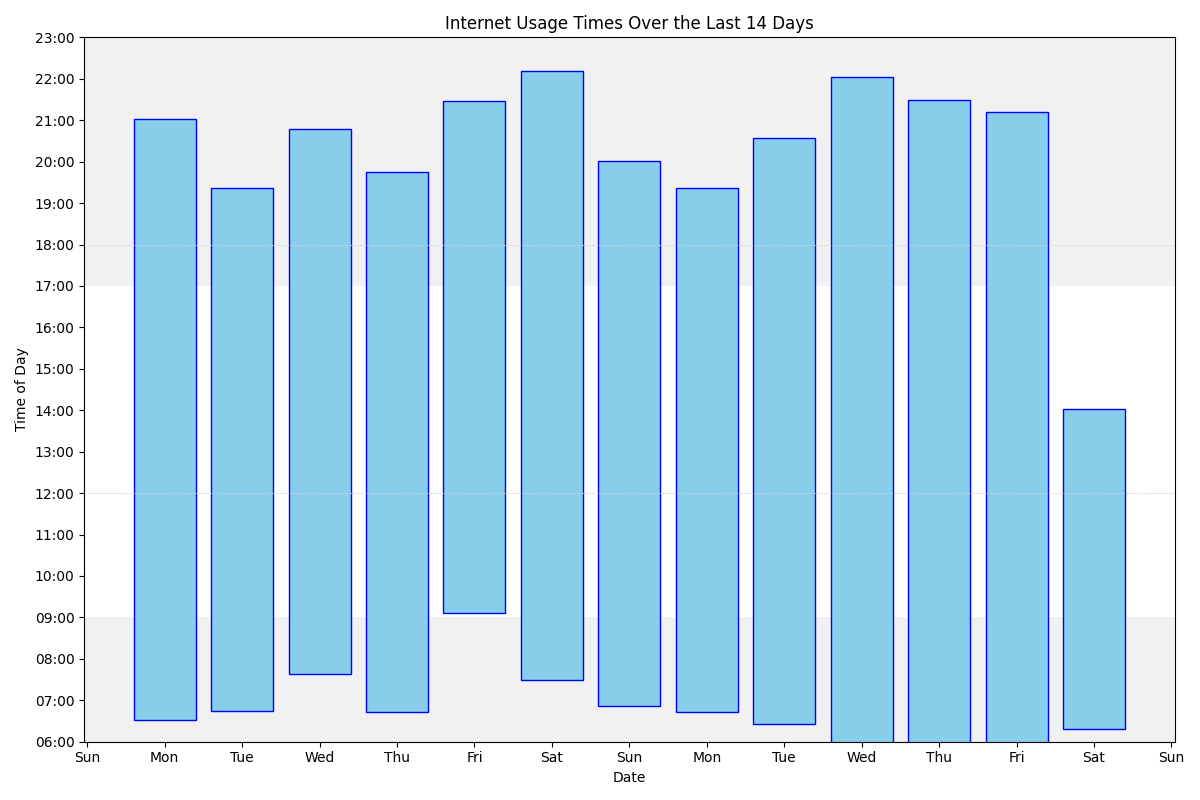
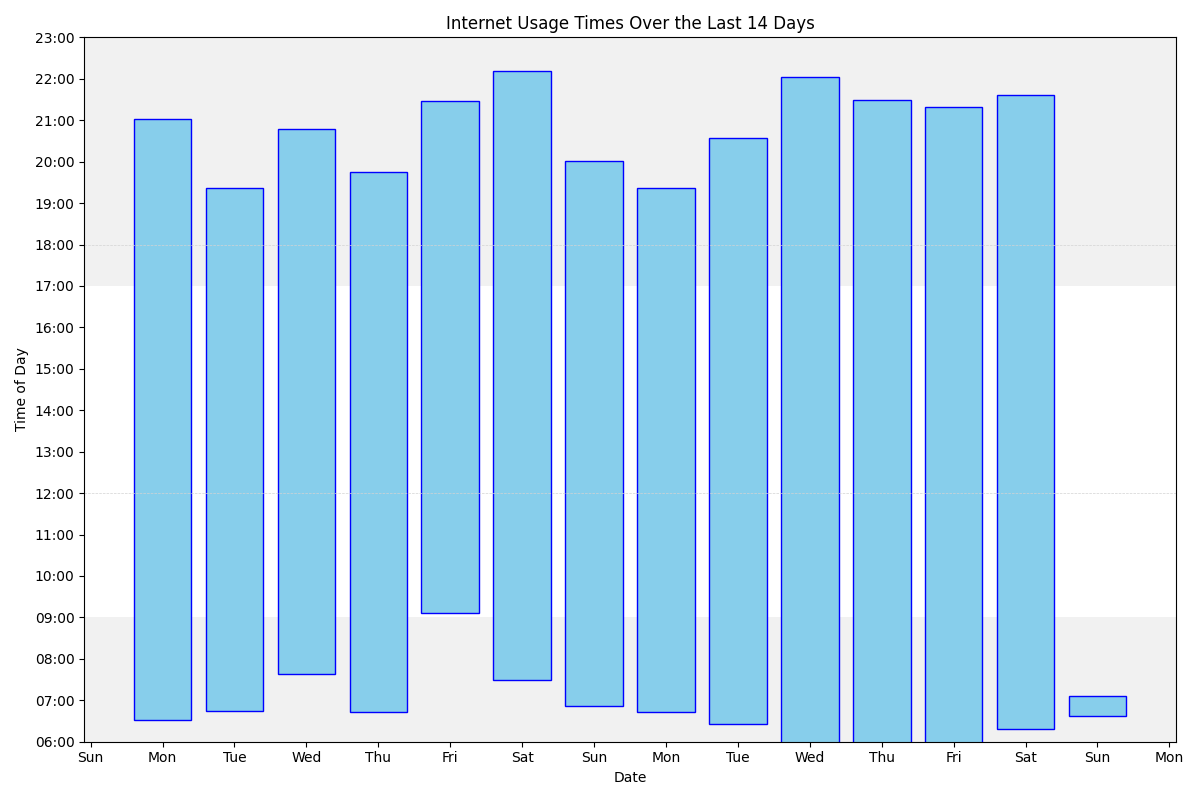
Update

diff --git a/index.md b/index.md
@@ -71,12 +71,12 @@ With number of accesses/minutes in parentheses
 <ol><li>www.google.com (2600)</li>
 <li>outlook.office.com (2005)</li>
 <li>mail.google.com (1893)</li>
-<li>docs.google.com (1587)</li>
+<li>docs.google.com (1589)</li>
 <li>bsky.app (1277)</li>
 <li>outlook.office365.com (1195)</li>
-<li>www.facebook.com (867)</li>
+<li>www.facebook.com (870)</li>
 <li>www.reddit.com (858)</li>
-<li>duckduckgo.com (633)</li>
+<li>duckduckgo.com (634)</li>
 <li>www.amazon.co.uk (600)</li>
 <li>chatgpt.com (520)</li>
 <li>rhul-my.sharepoint.com (413)</li>
@@ -84,15 +84,15 @@ With number of accesses/minutes in parentheses
 <li>www.linkedin.com (369)</li>
 <li>github.com (358)</li>
 <li>moodle.royalholloway.ac.uk (355)</li>
-<li>tvtropes.org (291)</li>
+<li>tvtropes.org (292)</li>
 <li>fritz.box (276)</li>
-<li>www.theguardian.com (273)</li>
+<li>www.theguardian.com (275)</li>
 <li>login.microsoftonline.com (234)</li>
 <li>gmail.com (228)</li>
 <li>qbo.intuit.com (221)</li>
 <li>feedly.com (217)</li>
 <li>web.whatsapp.com (208)</li>
-<li>drive.google.com (202)</li>
+<li>drive.google.com (203)</li>
 <li>www.coursera.org (202)</li>
 <li>chat.openai.com (182)</li>
 <li>rhul.sharepoint.com (168)</li>
@@ -104,7 +104,29 @@ With number of accesses/minutes in parentheses
 
 <ul></ul>
 
+<H3>Sunday, 23/03/25</H3>
+
+<br>
+
+<ul><li> 07:05 www.facebook.com</li>
+<li> 06:54 duckduckgo.com</li>
+<li> 06:51 www.facebook.com</li>
+<li class='same'> 06:50 www.facebook.com</li>
+<li> 06:50 docs.google.com</li>
+<li class='same'> 06:49 docs.google.com</li>
+<li> 06:37 www.theguardian.com</li>
+</ul>
+
 <H3>Saturday, 22/03/25</H3>
+
+<br>
+
+<ul></ul>
+
+<br>
+
+<ul><li class='same'> 21:36 www.theguardian.com</li>
+</ul>
 
 <br>
 
@@ -165,7 +187,8 @@ With number of accesses/minutes in parentheses
 
 <br>
 
-<ul><li> 21:11 tvtropes.org</li>
+<ul><li> 21:19 tvtropes.org</li>
+<li class='same'> 21:11 tvtropes.org</li>
 <li> 21:11 www.google.com</li>
 <li class='same'> 20:43 www.google.com</li>
 <li class='same'> 20:28 www.google.com</li>
@@ -42150,6 +42173,7 @@ With number of accesses/minutes in parentheses
 
 <ul><li> 10:07 drive.google.com</li>
 <li class='same'> 10:06 drive.google.com</li>
+<li class='same'> 09:59 drive.google.com</li>
 <li class='same'> 09:57 drive.google.com</li>
 <li> 09:44 equalitytime.github.io</li>
 </ul>
